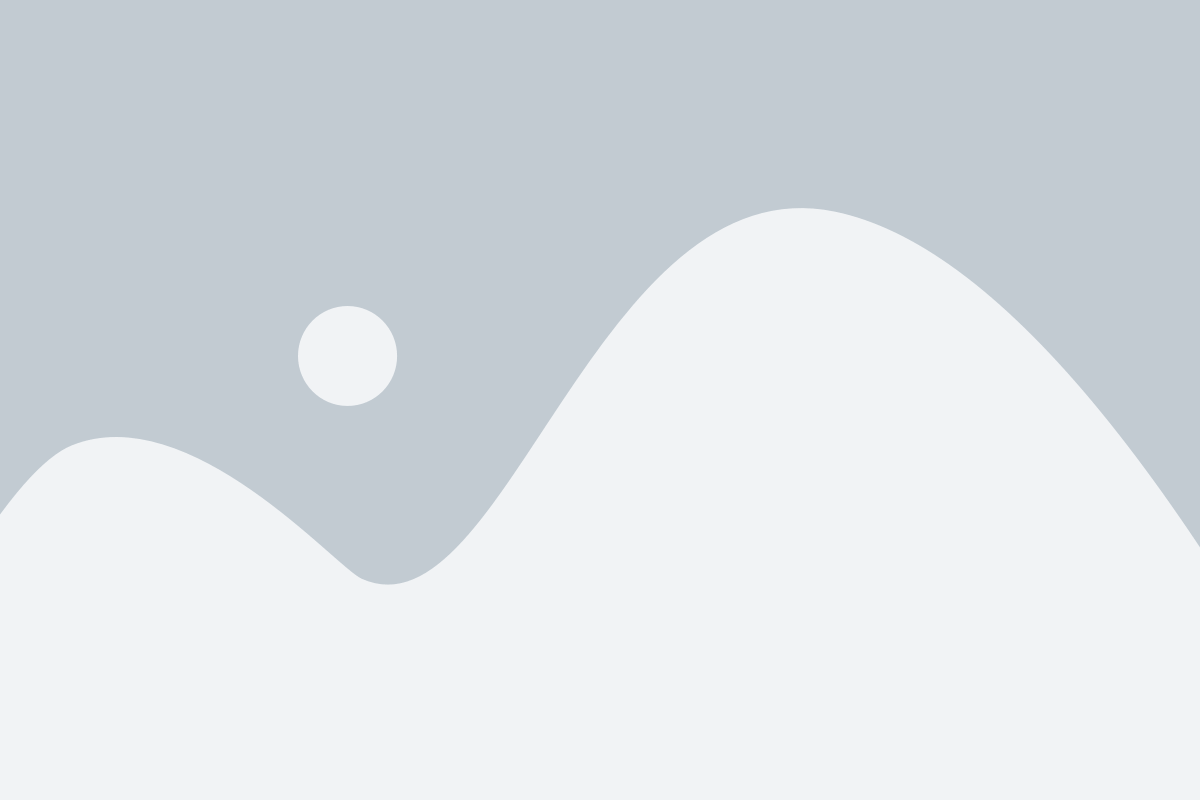
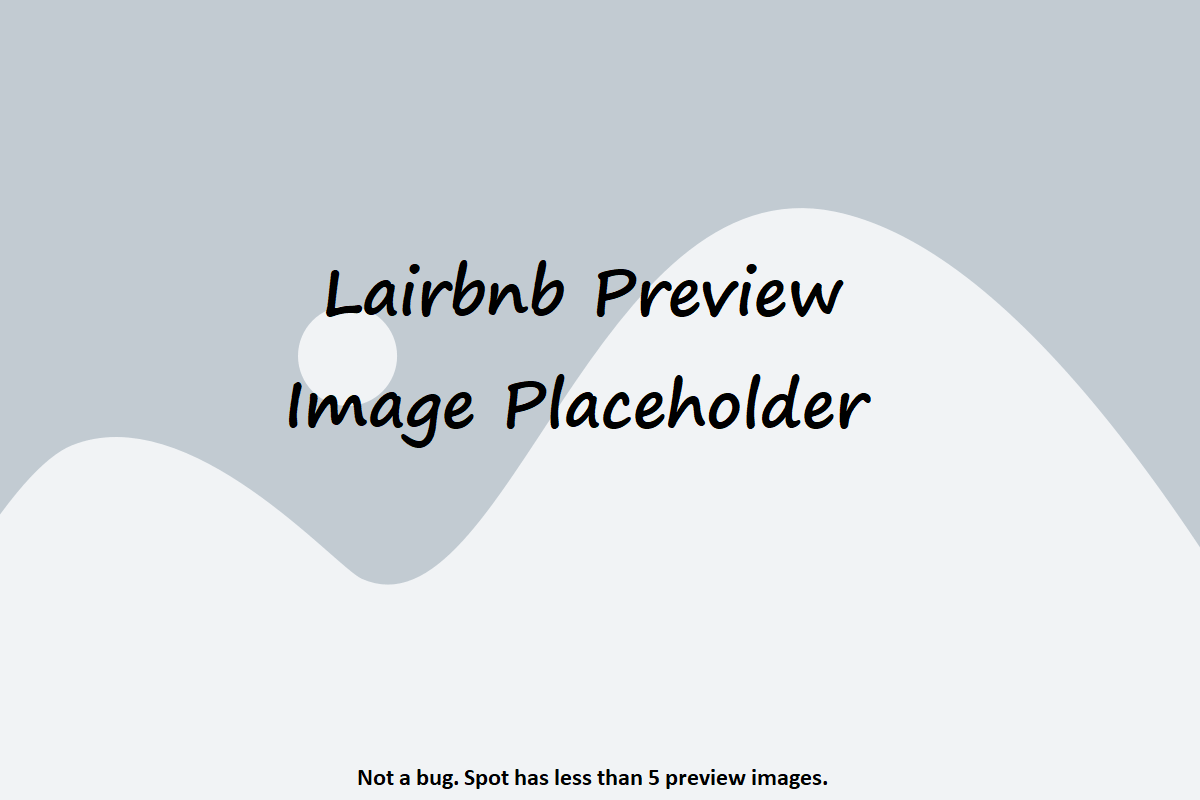
updating placholder image for preview image

Changed region(s): [[0.2467, 0.3125, 0.7092, 0.4062], [0.2158, 0.4688, 0.74, 0.5625], [0.2775, 0.9688, 0.6783, 1.0]]

diff --git a/frontend/src/views/SpotPage/SpotPage.js b/frontend/src/views/SpotPage/SpotPage.js
@@ -46,6 +46,7 @@ function SpotPage() {
 
     return load ? (
         <div className="spot-detail-main">
+            {/* spot information sectoin */}
             <section><SpotSection spot={spot} reviews={reviews} /></section>
 
             <section className="spot-line"></section>
@@ -62,8 +63,12 @@ function SpotPage() {
                         {reviews.userReviewsId.length + reviews.allReviewsId.length} reviews
                     </aside>
                 </section>
+
                 <section className="reviews df-c">
+                    {/* user review section */}
                     <section><UserReviewSection user={user} reviews={reviews} spot={spot} /></section>
+
+                    {/* other user review section */}
                     <section className="other-reviews-container"><OtherReviewSection reviews={reviews} /></section>
                 </section>
             </section>

diff --git a/frontend/src/components/SpotPageImage/SpotPageImage.js b/frontend/src/components/SpotPageImage/SpotPageImage.js
@@ -7,6 +7,7 @@ const SpotPageImage = ({ images }) => {
     // will need refactoring in order to implement new images for the additional spots
     // will also need to incorporate the previewImg functionality
     const [frontImage, setFrontImage] = useState()
+    const placeholder = (<img src=""/>)
 
     useEffect(() => {
         if (images.length > 0) {
